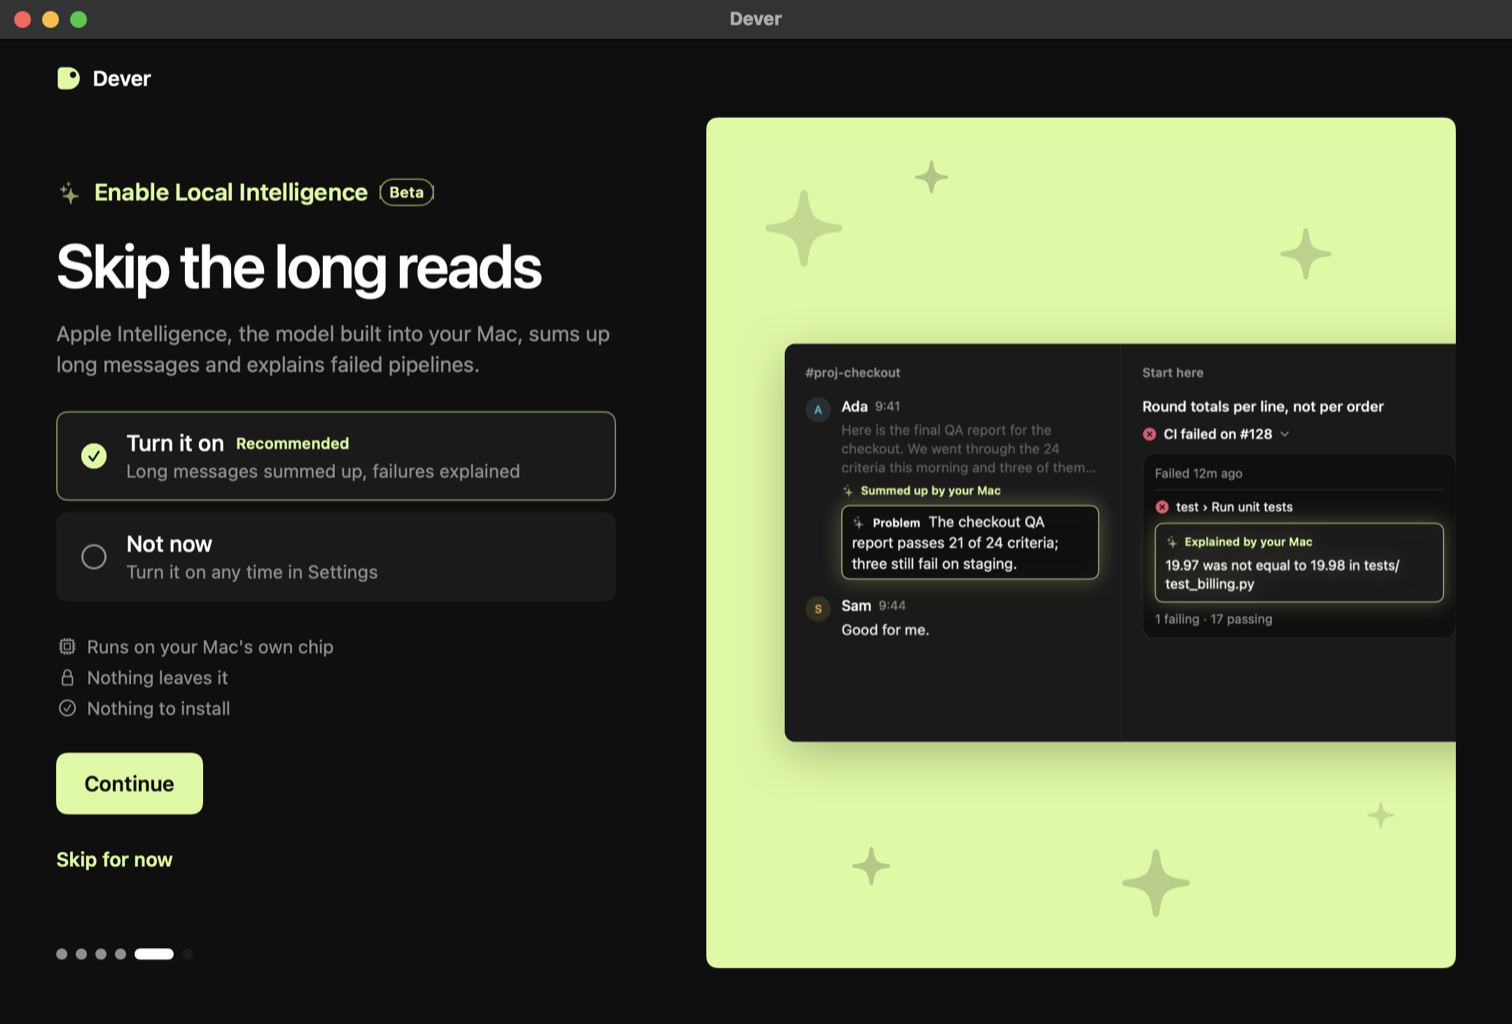
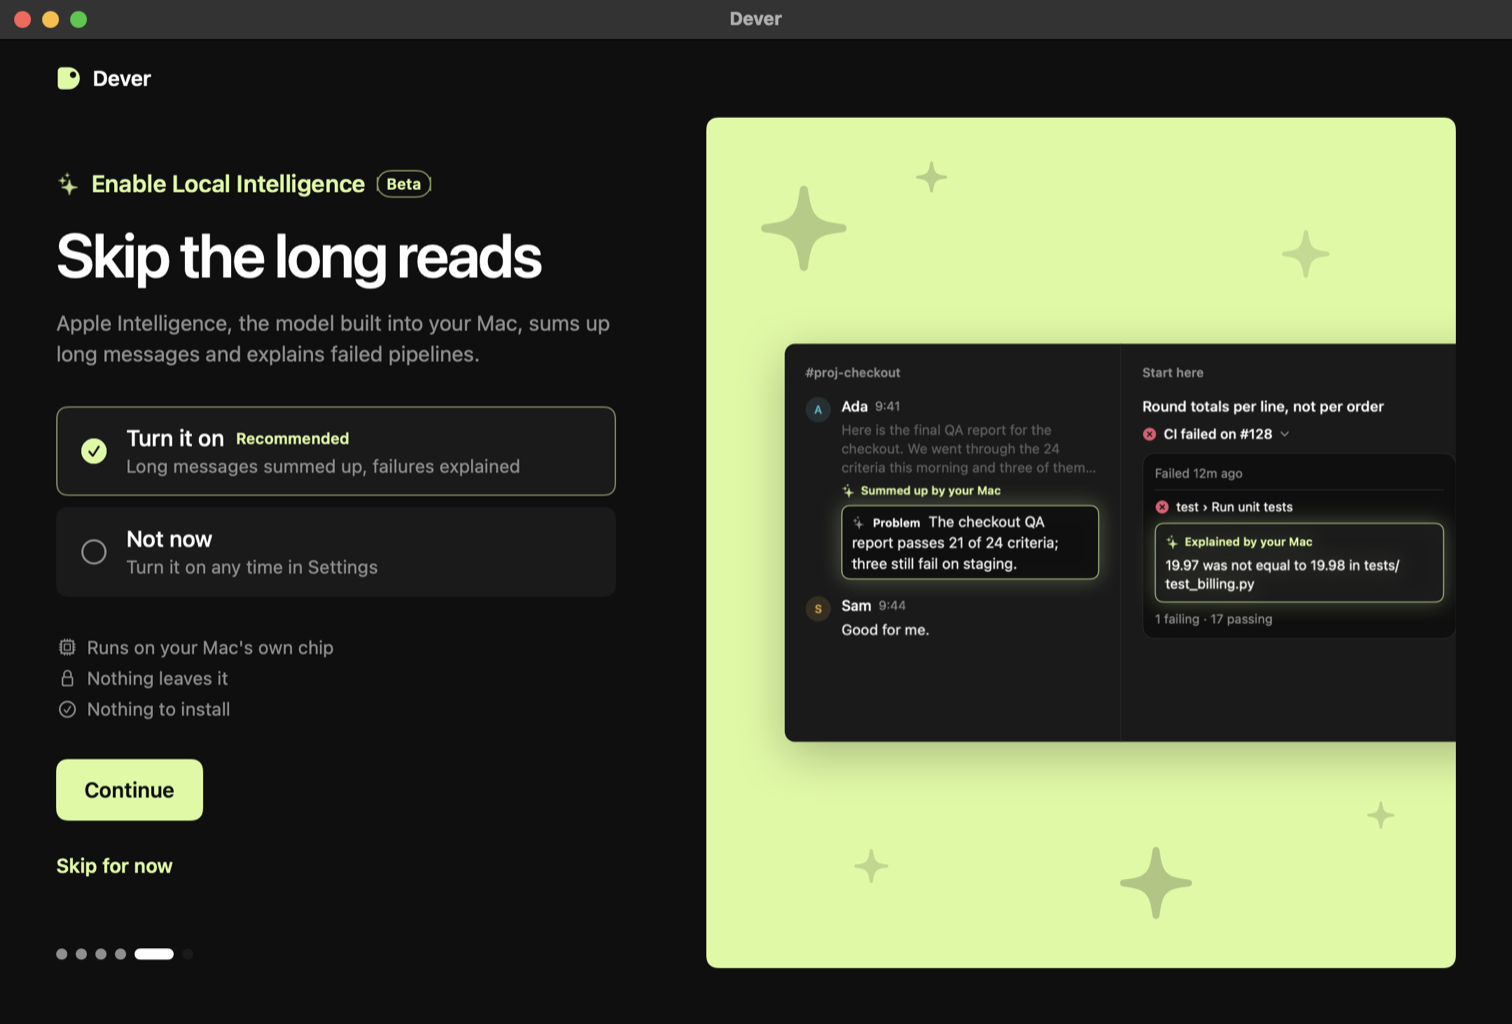
Onboarding: every stage opens with the same head, a name in lime, the headline and one sentence

diff --git a/Sources/Dever/Views/OnboardingView.swift b/Sources/Dever/Views/OnboardingView.swift
@@ -149,6 +149,37 @@ struct OnboardingView: View {
 
 // MARK: - Shared controls
 
+/// The head of every stage, the same everywhere: what the stage is about in a lime word or two
+/// behind a glyph, the headline, and where it helps one sentence that says why it is asked.
+struct StageHead: View {
+    let eyebrow: String
+    let symbol: String
+    let title: String
+    var lead: String? = nil
+    /// The glyph breathes (the sparkle of the Intelligence stage).
+    var twinkles = false
+    /// The stage's subject is still being proven: the word Beta beside its name.
+    var beta = false
+
+    var body: some View {
+        VStack(alignment: .leading, spacing: 14) {
+            HStack(spacing: 8) {
+                Image(systemName: symbol).font(.system(size: 15, weight: .semibold))
+                    .foregroundStyle(Soot.lime).modifier(Twinkle(on: twinkles))
+                    .accessibilityHidden(true)
+                Text(eyebrow).font(.system(size: 17, weight: .semibold)).foregroundStyle(Soot.lime)
+                if beta { StageTag(kind: .beta) }
+            }
+            Headline(text: title)
+            if let lead {
+                Text(lead).font(.system(size: 15)).foregroundStyle(Soot.muted)
+                    .lineSpacing(3).fixedSize(horizontal: false, vertical: true)
+                    .frame(maxWidth: 400, alignment: .leading)
+            }
+        }
+    }
+}
+
 /// A tertiary way out of onboarding: lime text, no fill, under the stage's primary action.
 private struct SkipButton: View {
     let action: () -> Void
@@ -170,7 +201,8 @@ private struct NameControls: View {
 
     var body: some View {
         VStack(alignment: .leading, spacing: 28) {
-            Headline(text: "What's your name?")
+            StageHead(eyebrow: "Welcome", symbol: "hand.wave", title: "What's your name?",
+                      lead: "Dever shows what is waiting for you, project by project.")
             TextField("Name", text: $displayName, prompt: Text("Your name").foregroundStyle(Soot.muted))
                 .textFieldStyle(.plain)
                 .font(.system(size: 24, weight: .medium))
@@ -212,7 +244,8 @@ private struct ConnectControls: View {
 
     var body: some View {
         VStack(alignment: .leading, spacing: 28) {
-            Headline(text: "Connect your tools")
+            StageHead(eyebrow: "Accounts", symbol: "link", title: "Connect your tools",
+                      lead: "Dever reads each project's channel, issues and pull requests.")
             VStack(spacing: 8) {
                 ServiceRow(service: .slack, why: "Each project's channel and its latest messages.", githubSheet: $githubSheet)
                 ServiceRow(service: .linear, why: "Each project's issues, to measure delivery.", githubSheet: $githubSheet)
@@ -363,7 +396,8 @@ private struct ChannelNamingControls: View {
 
     var body: some View {
         VStack(alignment: .leading, spacing: 28) {
-            Headline(text: "Name your channels")
+            StageHead(eyebrow: "Slack channels", symbol: "number", title: "Name your channels",
+                      lead: "Each project has its Slack channel. How are yours named?")
             VStack(spacing: 8) {
                 VStack(alignment: .leading, spacing: 0) {
                     choice(on: usesPrefix, title: "A shared prefix", tag: "Recommended",
@@ -455,7 +489,8 @@ private struct ProjectControls: View {
 
     var body: some View {
         VStack(alignment: .leading, spacing: 28) {
-            Headline(text: "Add your projects")
+            StageHead(eyebrow: "Projects", symbol: "square.stack", title: "Add your projects",
+                      lead: "A project is a channel, a Linear project and its repositories.")
             // Same row language as Connect: one recommended path first, the others under it.
             VStack(spacing: 8) {
                 OptionRow(icon: AnyView(BrandLogo(service: .slack, size: 20)),

diff --git a/Sources/Dever/Views/OnboardingIntelligence.swift b/Sources/Dever/Views/OnboardingIntelligence.swift
@@ -58,23 +58,10 @@ struct IntelligenceControls: View {
     }
 
     var body: some View {
-        VStack(alignment: .leading, spacing: 24) {
-            VStack(alignment: .leading, spacing: 14) {
-                // What is being asked, by name, before the benefit: the sparkle is the mark every
-                // generated text carries in the app, here lit and alive.
-                HStack(spacing: 8) {
-                    Image(systemName: "sparkles").font(.system(size: 17, weight: .semibold))
-                        .foregroundStyle(Soot.lime).modifier(Twinkle())
-                        .accessibilityHidden(true)
-                    Text(OnboardingIntelligence.name).font(.system(size: 17, weight: .semibold))
-                        .foregroundStyle(Soot.lime)
-                    StageTag(kind: .beta)
-                }
-                Headline(text: "Skip the long reads")
-                Text(OnboardingIntelligence.lead).font(.system(size: 15)).foregroundStyle(Soot.muted)
-                    .lineSpacing(3).fixedSize(horizontal: false, vertical: true)
-                    .frame(maxWidth: 400, alignment: .leading)
-            }
+        VStack(alignment: .leading, spacing: 28) {
+            // The sparkle is the mark every generated text carries in the app, here lit and alive.
+            StageHead(eyebrow: OnboardingIntelligence.name, symbol: "sparkles", title: "Skip the long reads",
+                      lead: OnboardingIntelligence.lead, twinkles: true, beta: true)
             Group {
                 if status.availability == .available {
                     VStack(spacing: 8) {
@@ -299,12 +286,14 @@ struct IntelligencePicture: View {
 struct Twinkle: ViewModifier {
     /// Where in its cycle this one starts, 0 to 1, so that neighbours do not pulse together.
     var phase: Double = 0
+    /// Off: the content is drawn as it is.
+    var on = true
     @Environment(\.accessibilityReduceMotion) private var reduceMotion
 
     func body(content: Content) -> some View {
-        TimelineView(.animation(minimumInterval: 1.0 / 30, paused: reduceMotion)) { context in
+        TimelineView(.animation(minimumInterval: 1.0 / 30, paused: reduceMotion || !on)) { context in
             let t = context.date.timeIntervalSinceReferenceDate / 2.4 + phase
-            let wave = reduceMotion ? 1 : 0.5 + 0.5 * cos(t * 2 * .pi)
+            let wave = reduceMotion || !on ? 1 : 0.5 + 0.5 * cos(t * 2 * .pi)
             content.opacity(0.6 + 0.4 * wave).scaleEffect(0.86 + 0.14 * wave)
         }
     }

diff --git a/Sources/Dever/Views/RepositoryModeView.swift b/Sources/Dever/Views/RepositoryModeView.swift
@@ -88,7 +88,8 @@ struct RepositoryModeControls: View {
 
     var body: some View {
         VStack(alignment: .leading, spacing: 28) {
-            Headline(text: "Where's the code?")
+            // No sentence under this one: the three rows say it, and the repository picker needs the room.
+            StageHead(eyebrow: "Repositories", symbol: "chevron.left.forwardslash.chevron.right", title: "Where's the code?")
             VStack(alignment: .leading, spacing: 16) {
                 RepositoryModeRows(mode: $mode)
                 if mode.usesWorkspaceRepository {

diff --git a/docs/on-device-ai.md b/docs/on-device-ai.md
@@ -392,9 +392,10 @@ Summaries
 - **Onboarding** has an Intelligence stage (`OnboardingIntelligence.swift`), after the channel names and
   before the first project: the tools are connected and described by then, and the projects are the way
   out of onboarding. It replaces the quiet line the Connect stage carried while there was nothing to choose.
-  - **Left,** top to bottom: what is asked, by name (a lit sparkle, "Enable Local Intelligence" in lime
-    and the word Beta, whose tooltip gives the meaning); the headline "Skip the long reads"; one
-    sentence that says whose model it is and what it does here ("Apple Intelligence, the model built
+  - **Left,** top to bottom, under the head every stage of onboarding shares (`StageHead`: a glyph and
+    a name in lime, the headline, one sentence): what is asked, by name (a lit sparkle, "Enable Local
+    Intelligence" and the word Beta, whose tooltip gives the meaning); the headline "Skip the long
+    reads"; one sentence that says whose model it is and what it does here ("Apple Intelligence, the model built
     into your Mac, sums up long messages and explains failed pipelines."); the answer, as two rows
     drawn like the channel-naming stage's ("Turn it on", Recommended, and "Not now", with "Turn it on
     any time in Settings"); what it costs, as three short facts with a glyph each ("Runs on your Mac's

diff --git a/docs/DEVELOPMENT.md b/docs/DEVELOPMENT.md
@@ -96,3 +96,8 @@ Nothing is written back in these runs.
 New users (no project yet) start with a short welcome: their display name, connecting Slack, Linear and GitHub
 (with what each one is used for), where the code lives (the repository mode, with GitHub), the channel prefix, what the Mac's own model does
 (where the Mac can run it), then a first project. Reopen it from Help → Welcome to Dever….
+
+Every stage opens with the same head (`StageHead` in `OnboardingView.swift`): a glyph and the stage's name in lime
+(Welcome, Accounts, Repositories, Slack channels, Enable Local Intelligence, Projects), the headline, and one sentence
+of 15 pt muted text that says why it is asked. The sentence is left out where the stage has no room for it at the
+smallest window (Repositories, whose rows say it). Under the head: rows, at most one line of reassurance, one action.
